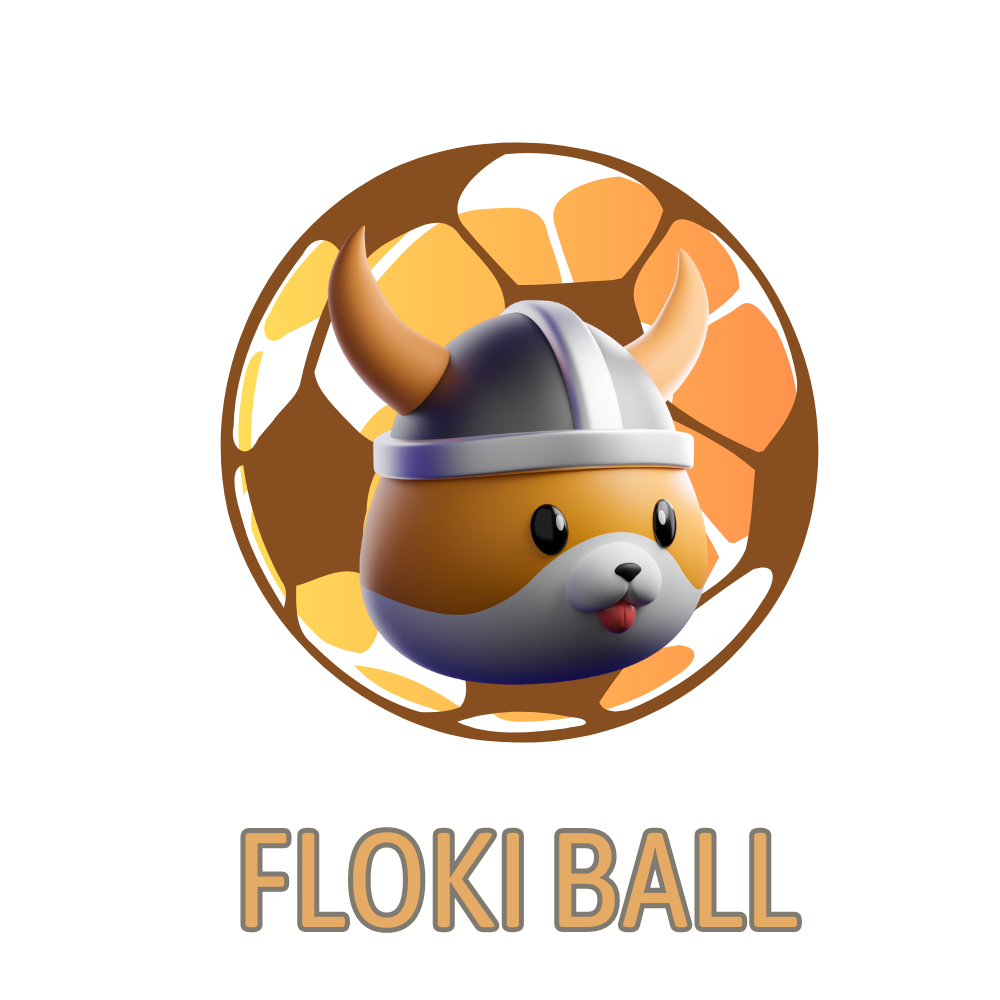
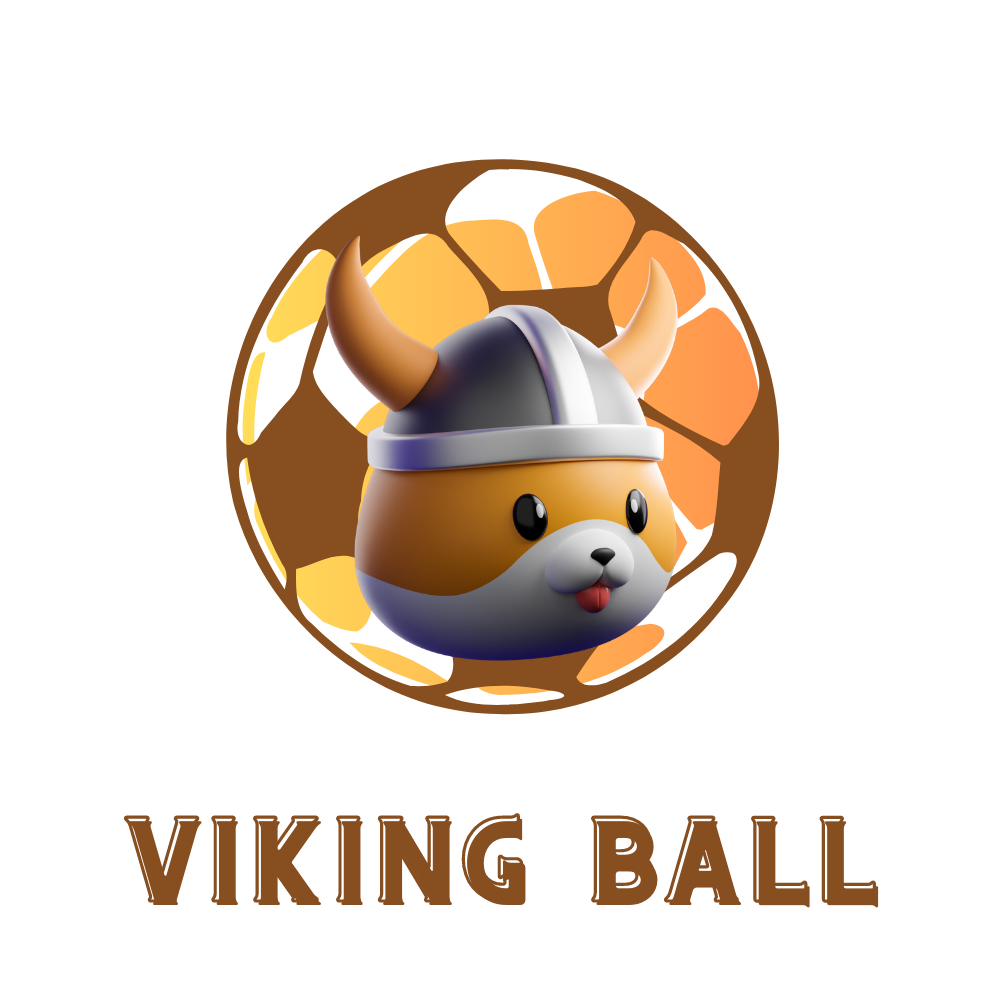
Upload

Changed region(s): [[0.217, 0.124, 0.837, 0.744], [0.124, 0.806, 0.899, 0.93]]

diff --git a/index.html b/index.html
@@ -3,7 +3,7 @@
 <head>
 	<meta charset="UTF-8">
 	<meta http-equiv="x-ua-compatible" content="ie=edge">
-	<title>FlokiBall</title>
+	<title>VikingBall</title>
 	<meta name="description" content="">
 	<meta name="viewport" content="width=device-width, initial-scale=1">
 	<!-- Favicon -->
@@ -53,14 +53,14 @@
                     <div class="hero-title">
                         <h1>Elon Musk inspired</h1>
                         <h1>ERC-20 Token</h1>
-                        <h3>FLOKIBALL</h3>
+                        <h3>VIKINGBALL</h3>
                         <div class="shape"></div>
                     </div>
                     <div class="hero-text">
-                        <p>FlokiBall is a cutting-edge ERC-20 Token inspired by the innovative and forward-thinking approach of Elon Musk.</p>
+                        <p>VikingBall is a cutting-edge ERC-20 Token inspired by the innovative and forward-thinking approach of Elon Musk.</p>
                     </div>
                     <div class="hero-button">
-                        <a href="https://t.me/flokiballeth">Get Started Now</a>
+                        <a href="https://t.me/vikingballeth">Get Started Now</a>
                     </div>
                 </div>
                  <div class="dreamit-hero-thumb">
@@ -94,7 +94,7 @@
              <div class="col-lg-12 col-sm-12">
                  <div class="dreamit-section-title style-two text-center pb-65">
                     <h4>EXCLUSIVE FEATURES</h4>
-                    <h1>FlokiBall is revolutionizing
+                    <h1>VikingBall is revolutionizing
                     </h1>
                     <h1>the world of cryptocurrency and blockchain.</h1>
                 </div>
@@ -109,7 +109,7 @@
                         </div>
                         <div class="feature-title">
                             <h3>Transparency</h3>
-                            <p style="text-align: justify;">Transparency is at the core of FlokiBall's philosophy. The team behind the token believes in complete openness and honesty with their investors. t</p>
+                            <p style="text-align: justify;">Transparency is at the core of VikingBall's philosophy. The team behind the token believes in complete openness and honesty with their investors. t</p>
                         </div>
                     </div>
                 </div>
@@ -122,7 +122,7 @@
                         </div>
                         <div class="feature-title">
                             <h3>Research & Technology</h3>
-                            <p style="text-align: justify;">Research & technology is another key feature of FlokiBall. The team is constantly exploring new ways to leverage blockchain technology to create innovative solutions for their users.</p>
+                            <p style="text-align: justify;">Research & technology is another key feature of VikingBall. The team is constantly exploring new ways to leverage blockchain technology to create innovative solutions for their users.</p>
                         </div>
                     </div>
                 </div>
@@ -135,7 +135,7 @@
                         </div>
                         <div class="feature-title">
                             <h3>High Security</h3>
-                            <p style="text-align: justify;">High security is also a top priority for FlokiBall. The team utilizes advanced security measures to protect their users' investments and personal information. </p>
+                            <p style="text-align: justify;">High security is also a top priority for VikingBall. The team utilizes advanced security measures to protect their users' investments and personal information. </p>
                         </div>
                     </div>
                 </div>
@@ -170,7 +170,7 @@
                     <div class="col-lg-12">
                          <div class="dreamit-section-title style-two pb-2">
                             <h4>KNOW MORE</h4>
-                            <h1>FlokiBall</h1>
+                            <h1>VikingBall</h1>
                             <h1>is a game-changing</h1>
                             <p class="section-text">  ERC-20 Token that embodies the spirit of innovation and disruption. With its focus on transparency, research & technology, and high security, it is poised to revolutionize the world of cryptocurrency and blockchain.</p>
                         </div>
@@ -216,7 +216,7 @@
                         </div>
                     </div>
                     <div class="about-button2 wow fadeInLeft" data-wow-delay=".9s">
-                        <a href="https://t.me/flokiballeth">Join Us</a>
+                        <a href="https://t.me/VikingBalleth">Join Us</a>
                     </div>
                 </div>
             </div>
@@ -244,8 +244,8 @@
              <div class="col-lg-12 col-sm-12">
                  <div class="dreamit-section-title text-center style-two pb-5 wow fadeInLeft" data-wow-delay=".3s">
                     <h4>Upcoming Utilities</h4>
-                    <h1>FlokiBall</h1>
-                    <p class="section-text">With its unique blend of technological prowess and forward-thinking approach, FlokiBall is revolutionizing the world of cryptocurrency and blockchain.
+                    <h1>VIKINGBALL</h1>
+                    <p class="section-text">With its unique blend of technological prowess and forward-thinking approach, VikingBall is revolutionizing the world of cryptocurrency and blockchain.
                     </p>
                 </div>
             </div>
@@ -263,10 +263,10 @@
                             </div>
                             <div class="single-process-content">
                                 <div class="process-title">
-                                    <h4>Flokimage Bot</h4>
+                                    <h4>Vikimage Bot</h4>
                                 </div>
                                 <div class="process-text">
-                                    <p style="text-align: justify;">Experience the future of digital art with FlokiImage Bot – where AI meets creativity!</p>
+                                    <p style="text-align: justify;">Experience the future of digital art with Vikimage Bot – where AI meets creativity!</p>
                                 </div>
                             </div>
                         </div>
@@ -281,10 +281,10 @@
                             </div>
                             <div class="single-process-content">
                                 <div class="process-title">
-                                    <h4>Flokstake dApp</h4>
+                                    <h4>Vikstake dApp</h4>
                                 </div>
                                 <div class="process-text">
-                                    <p style="text-align: justify;">Join the Flokstake revolution and earn rewards while supporting the future of digital art with FlokiBall Tokens!</p>
+                                    <p style="text-align: justify;">Join the Vikstake revolution and earn rewards while supporting the future of digital art with VikingBall Tokens!</p>
                                 </div>
                             </div>
                         </div>
@@ -299,10 +299,10 @@
                             </div>
                             <div class="single-process-content">
                                 <div class="process-title">
-                                    <h4>Flokriend Bot</h4>
+                                    <h4>Vikriend Bot</h4>
                                 </div>
                                 <div class="process-text">
-                                    <p style="text-align: justify;">Chat with FlokiBall AI and discover the exciting world of digital art while earning rewards with every conversation. Join the revolution today!</p>
+                                    <p style="text-align: justify;">Chat with VikingBall AI and discover the exciting world of digital art while earning rewards with every conversation. Join the revolution today!</p>
                                 </div>
                             </div>
                         </div>
@@ -317,10 +317,10 @@
                             </div>
                             <div class="single-process-content">
                                 <div class="process-title">
-                                    <h4>Flokilysis Bot</h4>
+                                    <h4>Vikilysis Bot</h4>
                                 </div>
                                 <div class="process-text">
-                                    <p style="text-align: justify;">Get ahead of the game with Flokilysis Bot - the ultimate tool for analyzing FlokiBall Token trading trends and making informed investment decisions.</p>
+                                    <p style="text-align: justify;">Get ahead of the game with Vikilysis Bot - the ultimate tool for analyzing VikingBall Token trading trends and making informed investment decisions.</p>
                                 </div>
                             </div>
                         </div>
@@ -350,7 +350,7 @@
                 <div class="dreamit-section-title style-two pb-2 wow fadeInLeft" data-wow-delay=".3s">
                     <h4>FAQs</h4>
                     <h1>Frequently Q/A</h1>
-                    <p class="section-text">FlokiBall is a game-changing ERC-20 Token<br> that embodies the spirit of innovation and disruption. </p>
+                    <p class="section-text">VikingBall is a game-changing ERC-20 Token<br> that embodies the spirit of innovation and disruption. </p>
                 </div>
             </div>
         </div>
@@ -359,22 +359,22 @@
                 <div class="accordion-menu wow fadeInLeft" data-wow-delay=".5s">
                     <ul class="accordion">
                         <li>
-                            <a>What is FlokiBall?</a>
-                            <p>FlokiBall is a cutting-edge ERC-20 Token that embodies the spirit of transparency, research & technology, and high security. Inspired by the visionary thinking and innovative approach of Elon Musk, it is designed to revolutionize the world of cryptocurrency and blockchain.
+                            <a>What is VikingBall?</a>
+                            <p>VikingBall is a cutting-edge ERC-20 Token that embodies the spirit of transparency, research & technology, and high security. Inspired by the visionary thinking and innovative approach of Elon Musk, it is designed to revolutionize the world of cryptocurrency and blockchain.
                             </p>
                         </li>
                         <li>
-                            <a>How does FlokiBall ensure transparency?
+                            <a>How does VikingBall ensure transparency?
                             </a>
-                            <p>Transparency is at the core of FlokiBall's philosophy. The team behind the token provides regular updates on the progress of the project, shares insights into their decision-making process, and is always available to answer any questions or concerns from investors.
+                            <p>Transparency is at the core of VikingBall's philosophy. The team behind the token provides regular updates on the progress of the project, shares insights into their decision-making process, and is always available to answer any questions or concerns from investors.
 
 
                             </p>
                         </li>
                         <li>
-                            <a>What is the focus of FlokiBall's research and technology?
+                            <a>What is the focus of VikingBall's research and technology?
                             </a>
-                            <p>The FlokiBall team is constantly exploring new ways to leverage blockchain technology to create innovative solutions for their users. They conduct thorough research to ensure that their token is always up-to-date with the latest industry trends and technologies.
+                            <p>The VikingBall team is constantly exploring new ways to leverage blockchain technology to create innovative solutions for their users. They conduct thorough research to ensure that their token is always up-to-date with the latest industry trends and technologies.
 
                             </p>
                         </li>
@@ -510,15 +510,15 @@
                 <div class="widgets-company-info  pt-3 wow fadeInLeft" data-wow-delay=".4s">
                     <div class="cryptobit-logo">
                         <a  class="widget-nav-menu" href="index.html" title="cryptobit">
-                            <h4 >FLOKIBALL</h4>
+                            <h4 >VikingBall</h4>
                         </a>
                     </div>
                     <div class="company-info-desc">
-                        <p>FlokiBall is a cutting-edge ERC-20 Token inspired by the innovative and forward-thinking approach of Elon Musk.</p>
+                        <p>VikingBall is a cutting-edge ERC-20 Token inspired by the innovative and forward-thinking approach of Elon Musk.</p>
                     </div>
                     <div class="company_icon">
-                        <a class="facebook" href="https://t.me/flokiballeth"><i class="fab fa-telegram"></i></a>
-                        <a class="twitter" href="https://twitter.com/flokiballeth"><i class="fab fa-twitter"></i></a>
+                        <a class="facebook" href="https://t.me/vikingballeth"><i class="fab fa-telegram"></i></a>
+                        <a class="twitter" href="https://twitter.com/vikingballeth"><i class="fab fa-twitter"></i></a>
                       
                     </div>
                 </div>                  
@@ -530,13 +530,13 @@
                             <h4 class="widget-title">FAQs</h4>
                             <div class="menu-quick-link-content">
                                 <ul class="menu">
-                                    <li><a href="#">What is FlokiBall?
+                                    <li><a href="#">What is VikingBall?
                                     </a></li>
-                                    <li><a href="#">How does FlokiBall ensure transparency?
+                                    <li><a href="#">How does VikingBall ensure transparency?
                                     </a></li>
-                                    <li><a href="#">What is the focus of FlokiBall's research and technology?
+                                    <li><a href="#">What is the focus of VikingBall's research and technology?
                                     </a></li>
-                                    <li><a href="#">How does FlokiBall ensure high security?
+                                    <li><a href="#">How does VikingBall ensure high security?
                                     </a></li>
                                 </ul>
                             </div>
